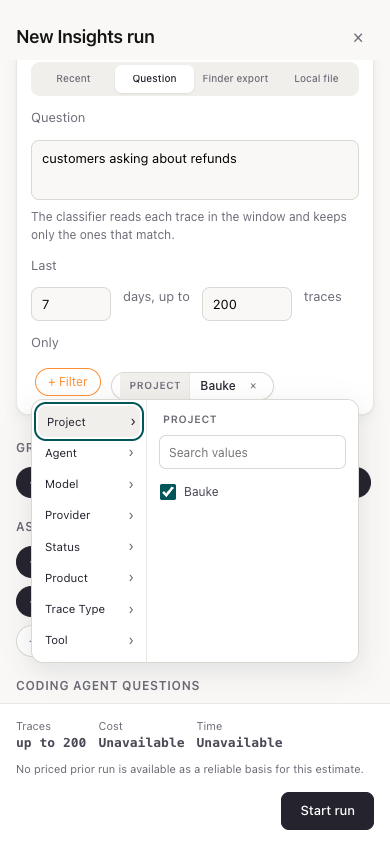
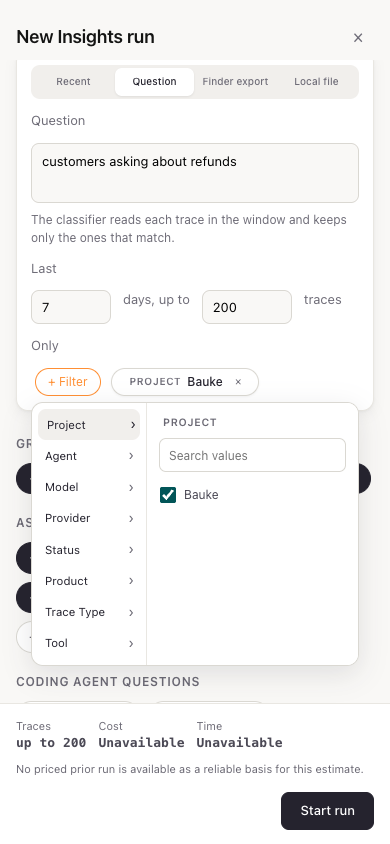
style(insights): align selected filter chip with picker

diff --git a/src/evaluatorq/dashboard/static/insights-review.css b/src/evaluatorq/dashboard/static/insights-review.css
@@ -358,7 +358,9 @@ kbd{font-family:var(--mono);font-size:10px;border:1px solid var(--border-default
 .sheet .facet-options .finder-facets .facet-sub input[type="checkbox"]{flex:none;width:16px;min-width:16px;height:16px;margin:0;padding:0;appearance:auto;accent-color:var(--teal-600)}
 .sheet .facet-options .finder-facets .facet-sub label span{min-width:0;overflow-wrap:anywhere}
 .sheet .facet-options .finder-facets .facet-search{width:calc(100% - 12px);max-width:100%}
-.sheet .facet-options .insights-selected-facets{display:flex;flex-wrap:wrap;align-items:center;gap:6px;min-width:0;max-width:100%;margin-top:7px}
+.sheet .facet-options .insights-selected-facets{display:flex;flex-wrap:wrap;align-items:center;gap:6px;min-width:0;max-width:100%}
+.sheet .insights-selected-facets .chip b{padding:0 6px 0 10px;background:transparent;border-right:0}
+.sheet .insights-selected-facets .chip .v{padding:0 8px 0 0}
 .sheet .seg{flex-wrap:nowrap;min-width:0;overflow:hidden}
 .sheet .seg button{min-width:0;padding-right:clamp(2px,1vw,8px);padding-left:clamp(2px,1vw,8px);font-size:clamp(10px,1.7vw,12px);white-space:nowrap}
 .sheet [role="alert"]{max-width:100%;line-height:1.45}
